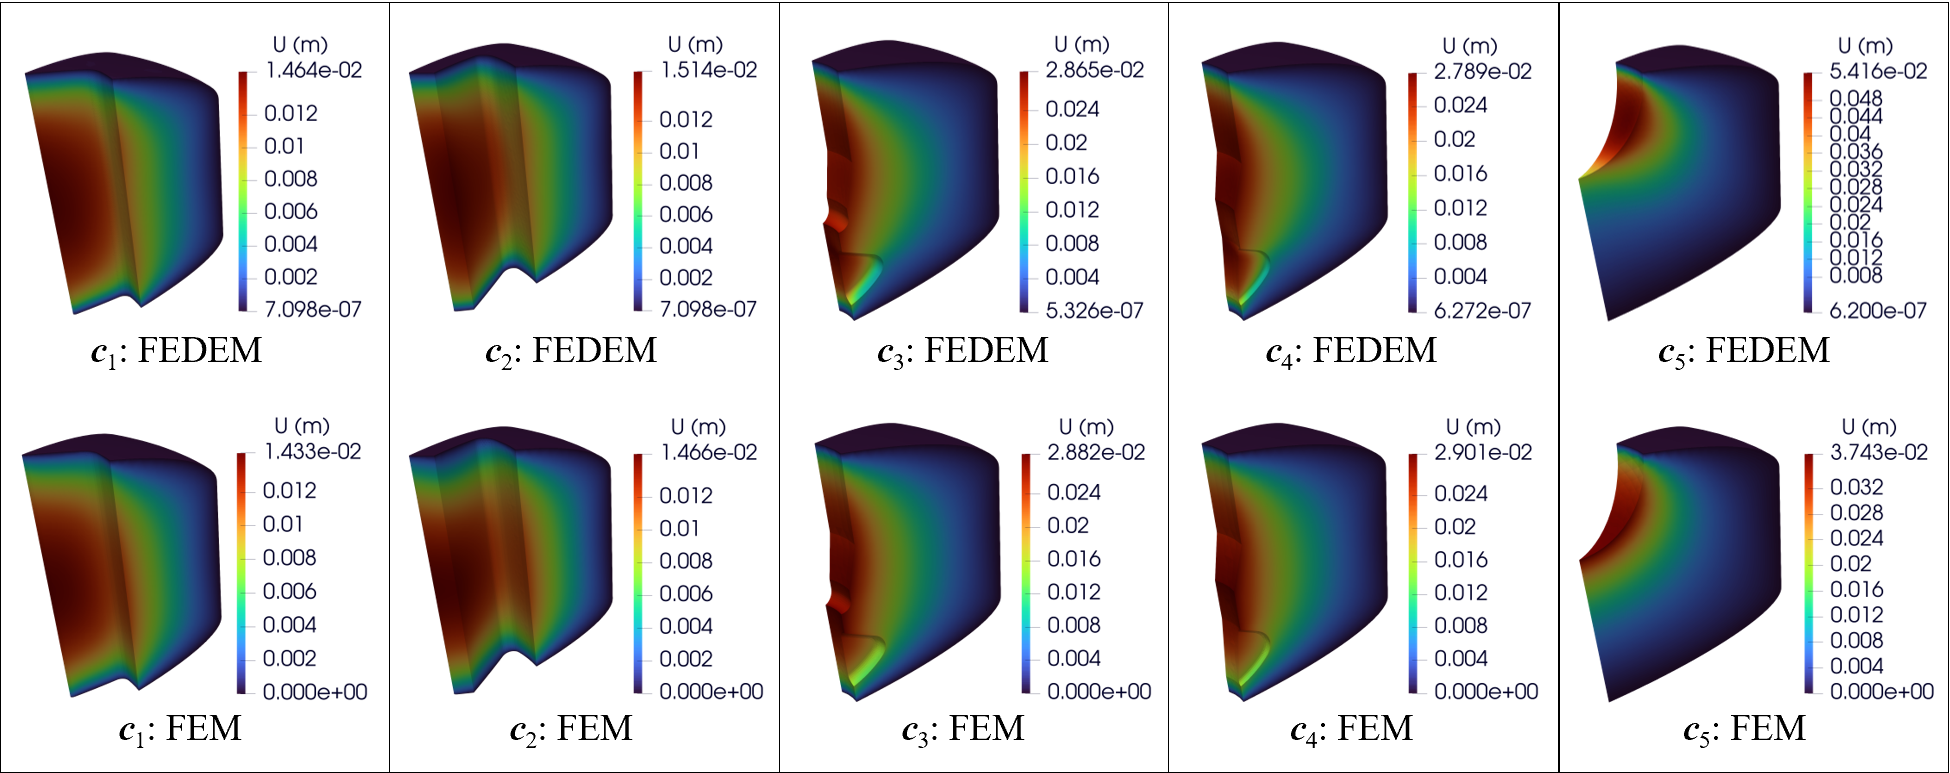
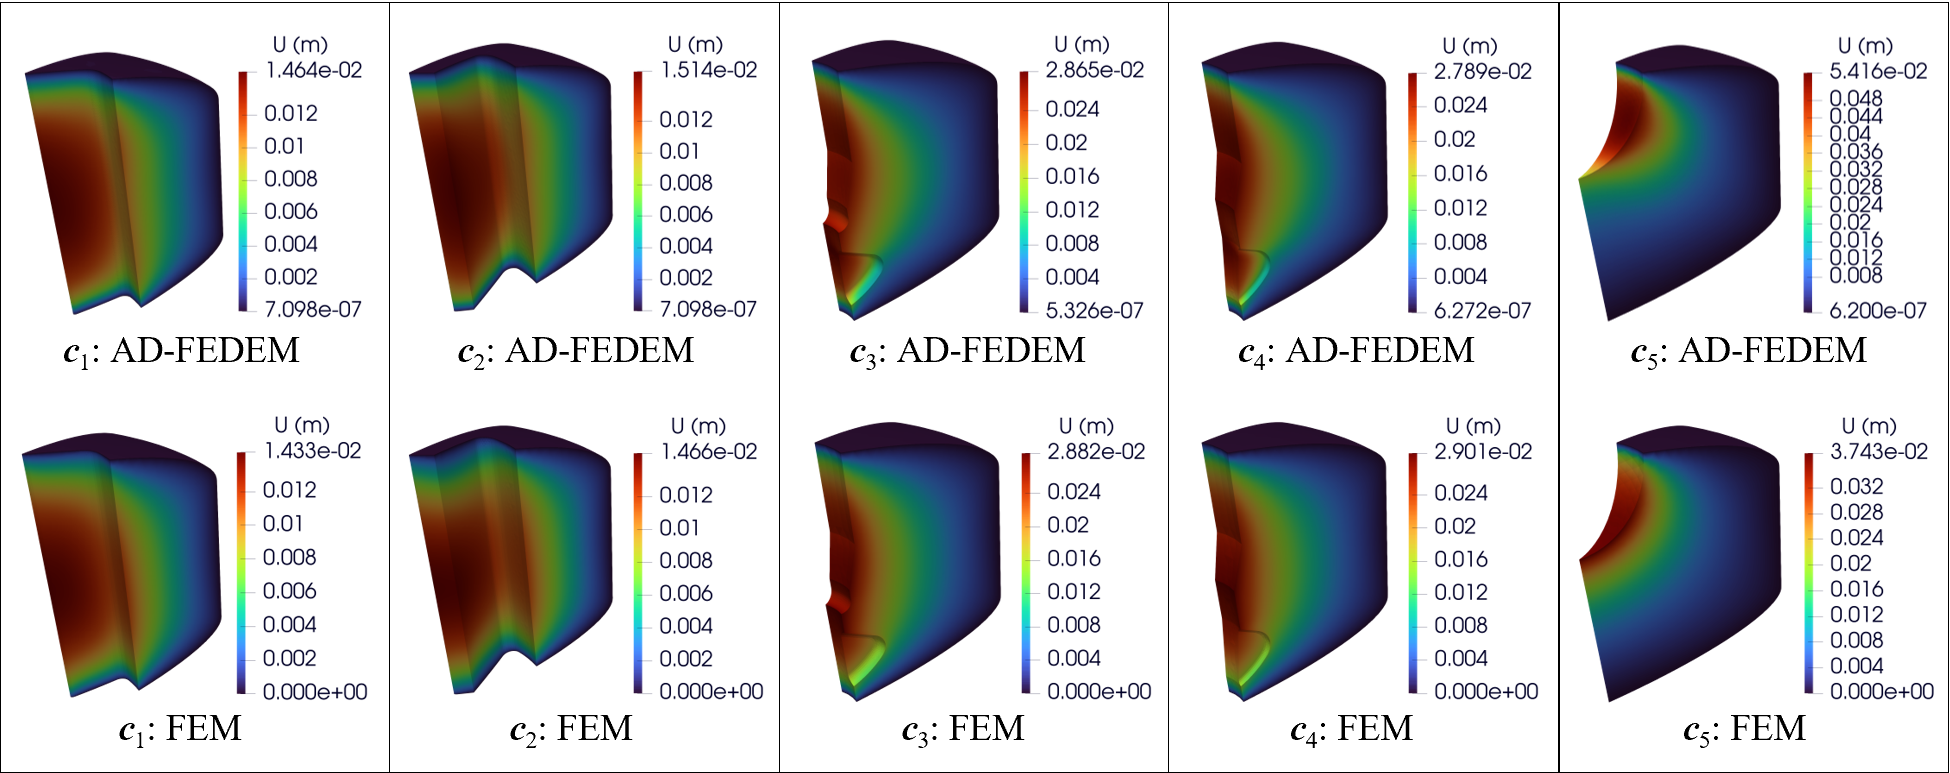
Correct project name from FEEDEM to AD-FEDEM

diff --git a/README.md b/README.md
@@ -1,6 +1,6 @@
-# FEEDEM - Finite Element-Enhanced Deep Energy Method
+# AD-FEDEM - Auto-Decoding Finite Element-Enhanced Deep Energy Method
 
-FEDEM is a deep learning-based finite element mechanics computation framework for simulating and analyzing hyperelastic problems in solid propellants. This project combines traditional finite element methods with modern deep learning techniques to provide efficient numerical solutions for complex-geometry grains.
+To bridge this gap between deep learning and industrial-scale engineering simulations, we propose the AD-FEDEM for simulating and analyzing hyperelastic problems in solid propellants. This novel framework integrates the geometric flexibility of unstructured FEM meshes with the computational efficiency of deep learning.
 ![Group Grain Results 1](./images/GroupGrainResults-1.png)
 *Fig 1: displacement of batched grains simulation results*
 
@@ -13,10 +13,10 @@ FEDEM is a deep learning-based finite element mechanics computation framework fo
 The project consists of the following main modules:
 
 - **DEM3D**: vanilla deep energy method for hyperelastic 3D beam bending, according to paper _A deep energy method for finite deformation hyperelasticity_
-- **Beam3D**: hyperelastic 3D beam benchmark to examine FEDEM's advantage over DEM proposed in previous works
-- **Grain3D**: single complex grain experiment to demonstrate FEDEM's capacity for intricate geometry
+- **Beam3D**: hyperelastic 3D beam benchmark to examine AD-FEDEM's advantage over DEM proposed in previous works
+- **Grain3D**: single complex grain experiment to demonstrate AD-FEDEM's capacity for intricate geometry
 - **Grain3D_DataDriven**: ablation study on the loss function to verify the effectiveness of the data-driven design
-- **GroupGrains**: batched grains experiment to demonstrate FEDEM's ability of solving multiple propellants in parallel
+- **GroupGrains**: batched grains experiment to demonstrate AD-FEDEM's ability of solving multiple propellants in parallel
 
 
 ## Technical Features
